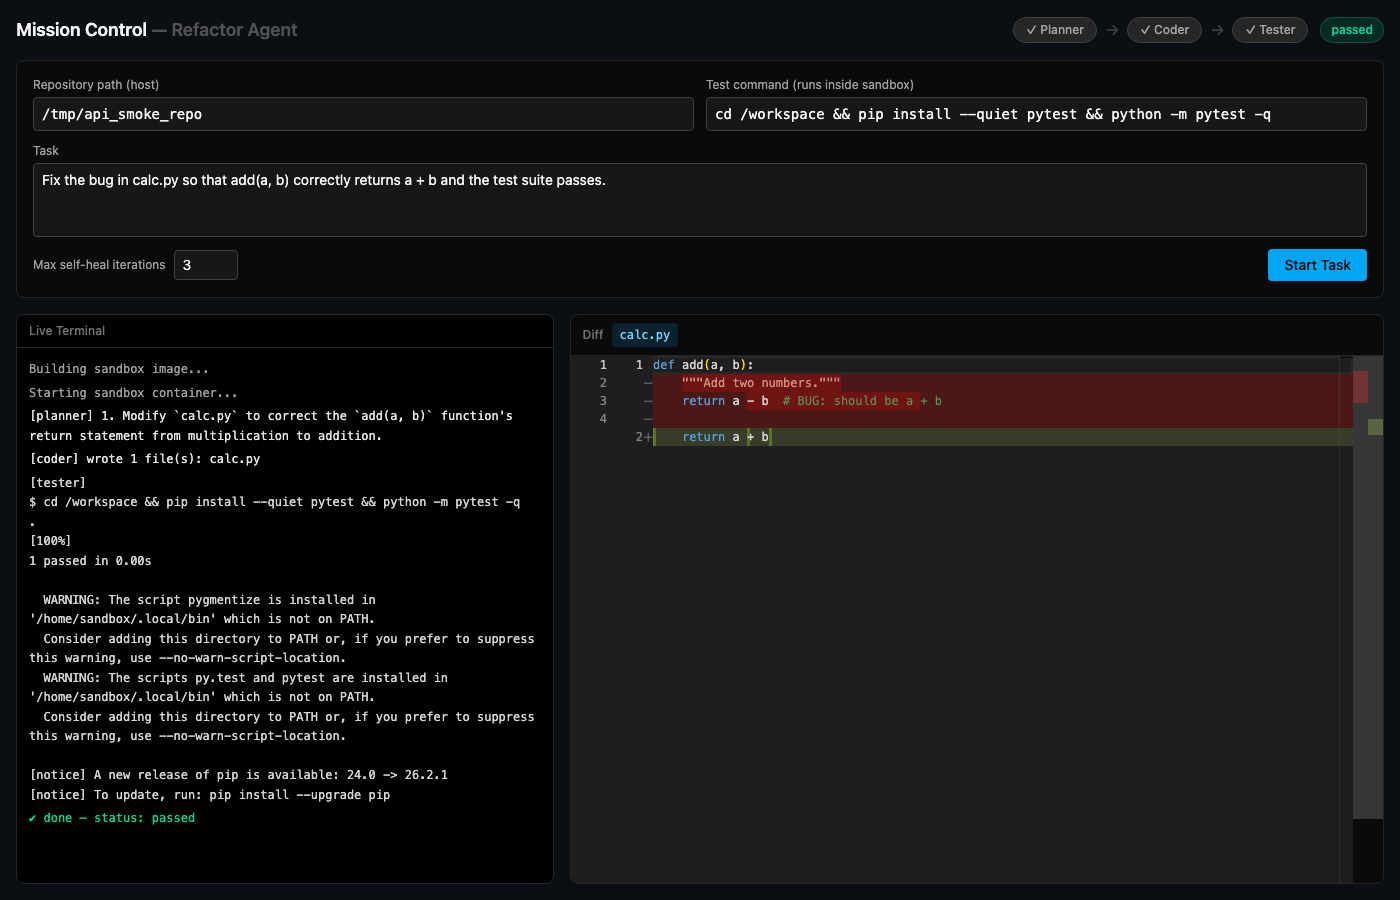
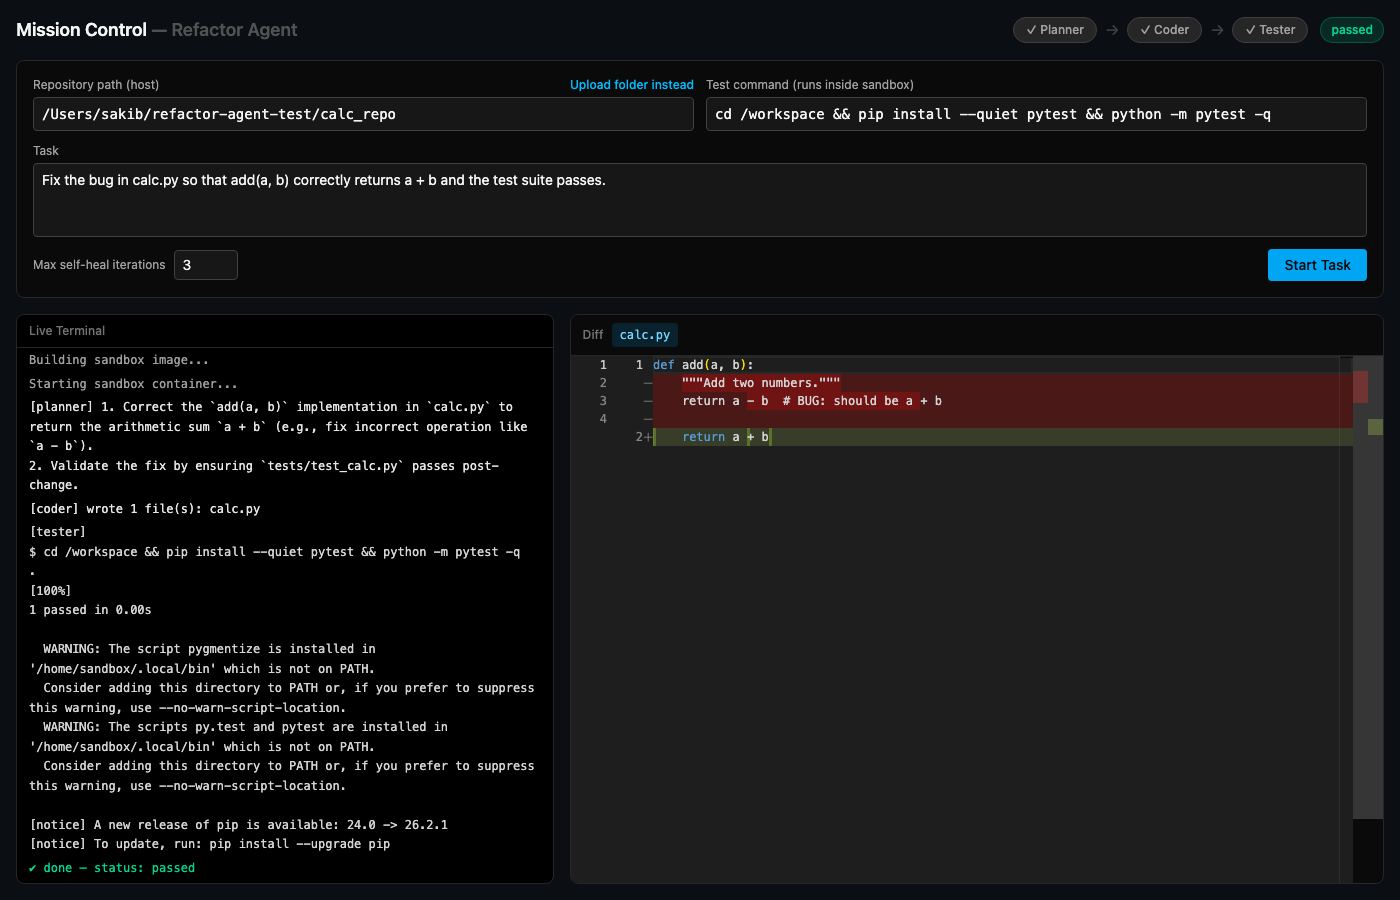
feat: implement file upload functionality with validation and response handling

diff --git a/frontend/src/components/TaskForm.tsx b/frontend/src/components/TaskForm.tsx
@@ -1,5 +1,6 @@
-import { useState } from "react";
+import { useEffect, useRef, useState } from "react";
 
+import { uploadRepository } from "../api";
 import type { TaskCreateRequest } from "../types";
 
 interface TaskFormProps {
@@ -12,6 +13,28 @@ export function TaskForm({ onSubmit, disabled }: TaskFormProps) {
   const [task, setTask] = useState("");
   const [testCommand, setTestCommand] = useState("pytest -q");
   const [maxIterations, setMaxIterations] = useState(3);
+  const [uploadState, setUploadState] = useState<
+    { status: "idle" } | { status: "uploading" } | { status: "done"; fileCount: number } | { status: "error"; message: string }
+  >({ status: "idle" });
+
+  const fileInputRef = useRef<HTMLInputElement>(null);
+
+  // webkitdirectory has no JSX/TS prop — set it imperatively on the input.
+  useEffect(() => {
+    fileInputRef.current?.setAttribute("webkitdirectory", "");
+  }, []);
+
+  async function handleFolderSelected(fileList: FileList | null) {
+    if (!fileList || fileList.length === 0) return;
+    setUploadState({ status: "uploading" });
+    try {
+      const { repoPath: uploadedPath, fileCount } = await uploadRepository(fileList);
+      setRepoPath(uploadedPath);
+      setUploadState({ status: "done", fileCount });
+    } catch (err) {
+      setUploadState({ status: "error", message: err instanceof Error ? err.message : String(err) });
+    }
+  }
 
   return (
     <form
@@ -23,7 +46,24 @@ export function TaskForm({ onSubmit, disabled }: TaskFormProps) {
     >
       <div className="grid grid-cols-1 gap-3 sm:grid-cols-2">
         <label className="flex flex-col gap-1 text-xs text-neutral-400">
-          Repository path (host)
+          <div className="flex items-center justify-between">
+            <span>Repository path (host)</span>
+            <button
+              type="button"
+              disabled={disabled || uploadState.status === "uploading"}
+              onClick={() => fileInputRef.current?.click()}
+              className="text-xs font-medium text-sky-400 hover:text-sky-300 disabled:cursor-not-allowed disabled:opacity-40"
+            >
+              {uploadState.status === "uploading" ? "Uploading…" : "Upload folder instead"}
+            </button>
+            <input
+              ref={fileInputRef}
+              type="file"
+              multiple
+              hidden
+              onChange={(e) => handleFolderSelected(e.target.files)}
+            />
+          </div>
           <input
             required
             disabled={disabled}
@@ -32,6 +72,10 @@ export function TaskForm({ onSubmit, disabled }: TaskFormProps) {
             placeholder="/path/to/target/repo"
             className="rounded border border-neutral-700 bg-neutral-900 px-2 py-1.5 font-mono text-sm text-neutral-100 disabled:opacity-50"
           />
+          {uploadState.status === "done" && (
+            <span className="text-emerald-400">Uploaded {uploadState.fileCount} file(s)</span>
+          )}
+          {uploadState.status === "error" && <span className="text-rose-400">{uploadState.message}</span>}
         </label>
         <label className="flex flex-col gap-1 text-xs text-neutral-400">
           Test command (runs inside sandbox)

diff --git a/frontend/src/api.ts b/frontend/src/api.ts
@@ -13,3 +13,44 @@ export async function createTask(req: TaskCreateRequest): Promise<string> {
   const data = (await res.json()) as { task_id: string };
   return data.task_id;
 }
+
+// Mirrors backend/app/rag/indexer.py's EXCLUDED_DIRS — no point uploading
+// dependency/build/vcs directories the agent's sandbox will regenerate anyway.
+const EXCLUDED_DIR_SEGMENTS = new Set([
+  ".git",
+  "__pycache__",
+  "node_modules",
+  ".venv",
+  "venv",
+  "dist",
+  "build",
+  ".pytest_cache",
+  "data",
+]);
+
+/** File objects from an <input webkitdirectory> input carry a non-standard
+ * webkitRelativePath, e.g. "myrepo/src/index.js" — not in lib.dom's File type. */
+type FileWithPath = File & { webkitRelativePath: string };
+
+export async function uploadRepository(fileList: FileList): Promise<{ repoPath: string; fileCount: number }> {
+  const files = Array.from(fileList) as FileWithPath[];
+  const included = files.filter(
+    (f) => !f.webkitRelativePath.split("/").some((segment) => EXCLUDED_DIR_SEGMENTS.has(segment)),
+  );
+  if (included.length === 0) {
+    throw new Error("no files to upload (folder was empty or fully excluded)");
+  }
+
+  const formData = new FormData();
+  for (const file of included) {
+    formData.append("files", file, file.webkitRelativePath);
+  }
+
+  const res = await fetch("/api/uploads", { method: "POST", body: formData });
+  if (!res.ok) {
+    const body = await res.json().catch(() => ({}));
+    throw new Error(body.detail ?? `upload failed: ${res.status}`);
+  }
+  const data = (await res.json()) as { repo_path: string; file_count: number };
+  return { repoPath: data.repo_path, fileCount: data.file_count };
+}

diff --git a/frontend/src/monaco-setup.ts b/frontend/src/monaco-setup.ts
@@ -4,8 +4,27 @@ import * as monaco from "monaco-editor";
 // Self-host Monaco instead of @monaco-editor/react's CDN default — this
 // project's default stack is local-first (Ollama, ChromaDB, Docker all run
 // on-device), so the editor shouldn't be the one piece that needs network.
-// No custom web worker wiring: this app only uses a read-only DiffEditor, so
-// Monaco's main-thread fallback (used automatically when no worker is
-// configured) is fine — the language-service workers exist for live
-// editing features (autocomplete, validation) that we don't use.
+//
+// The worker itself is trickier: monaco-editor's ESM worker entrypoints
+// (esm/vs/editor/editor.worker.js) have unresolved relative imports that
+// Vite 8/Rolldown's worker plugin currently can't bundle from inside
+// node_modules. Monaco's own build already produces a fully self-contained,
+// dependency-free worker bundle under min/vs/assets/ (a plain IIFE, no
+// import/export) — pull that in as raw text via a glob (the filename has a
+// content hash that shifts between monaco-editor versions) and run it as a
+// classic Worker from a Blob URL, sidestepping the bundler entirely.
+const editorWorkerSources = import.meta.glob("/node_modules/monaco-editor/min/vs/assets/editor.worker-*.js", {
+  query: "?raw",
+  import: "default",
+  eager: true,
+}) as Record<string, string>;
+const editorWorkerSource = Object.values(editorWorkerSources)[0];
+
+self.MonacoEnvironment = {
+  getWorker() {
+    const blob = new Blob([editorWorkerSource], { type: "application/javascript" });
+    return new Worker(URL.createObjectURL(blob));
+  },
+};
+
 loader.config({ monaco });

diff --git a/backend/app/api/routes.py b/backend/app/api/routes.py
@@ -1,17 +1,47 @@
 import asyncio
 import json
+import uuid
 from pathlib import Path
 
-from fastapi import APIRouter, BackgroundTasks, HTTPException, Request
+from fastapi import APIRouter, BackgroundTasks, File, HTTPException, Request, UploadFile
 from fastapi.responses import StreamingResponse
 
 from app.api.executor import execute_task
-from app.api.schemas import TaskCreateRequest, TaskCreateResponse, TaskStatusResponse
+from app.api.schemas import TaskCreateRequest, TaskCreateResponse, TaskStatusResponse, UploadResponse
 from app.api.task_manager import task_manager
+from app.core.config import get_settings
 
 router = APIRouter(prefix="/api")
+settings = get_settings()
 
 SSE_KEEPALIVE_SECONDS = 15
+
+
+def _safe_relative_path(raw: str) -> Path:
+    """Rejects absolute paths and any '..' segment — raw is a browser-supplied
+    filename (we ask the frontend to send each file's folder-relative path as
+    its multipart filename), so it must be treated as untrusted input."""
+    parts = [p for p in raw.replace("\\", "/").split("/") if p not in ("", ".")]
+    if not parts or any(p == ".." for p in parts):
+        raise HTTPException(status_code=400, detail=f"invalid path in upload: {raw!r}")
+    return Path(*parts)
+
+
+@router.post("/uploads", response_model=UploadResponse)
+async def upload_repository(files: list[UploadFile] = File(...)) -> UploadResponse:
+    if not files:
+        raise HTTPException(status_code=400, detail="no files provided")
+
+    dest_root = Path(settings.upload_root) / uuid.uuid4().hex[:12]
+    dest_root.mkdir(parents=True, exist_ok=True)
+
+    for upload in files:
+        relative = _safe_relative_path(upload.filename or "")
+        dest_path = dest_root / relative
+        dest_path.parent.mkdir(parents=True, exist_ok=True)
+        dest_path.write_bytes(await upload.read())
+
+    return UploadResponse(repo_path=str(dest_root), file_count=len(files))
 
 
 @router.post("/tasks", response_model=TaskCreateResponse)

diff --git a/backend/app/core/config.py b/backend/app/core/config.py
@@ -1,4 +1,5 @@
 from functools import lru_cache
+from pathlib import Path
 from typing import Optional
 
 from pydantic_settings import BaseSettings, SettingsConfigDict
@@ -44,6 +45,18 @@ class Settings(BaseSettings):
     LOG_LEVEL: str = "INFO"
     API_HOST: str = "0.0.0.0"
     API_PORT: int = 8000
+
+    # --- Uploads ---
+    # HOST_HOME is only set when running dockerized (docker-compose injects
+    # the *host's* $HOME) — inside the backend container, Path.home() would
+    # otherwise resolve to /root, which the host's Docker daemon (used via
+    # DooD to bind-mount into sandbox containers) has no knowledge of.
+    HOST_HOME: str = ""
+
+    @property
+    def upload_root(self) -> str:
+        base = self.HOST_HOME or str(Path.home())
+        return str(Path(base) / ".refactor-agent-uploads")
 
 
 @lru_cache

diff --git a/backend/app/api/schemas.py b/backend/app/api/schemas.py
@@ -19,3 +19,8 @@ class TaskStatusResponse(BaseModel):
     status: str
     events: list[dict]
     final_state: Optional[dict] = None
+
+
+class UploadResponse(BaseModel):
+    repo_path: str
+    file_count: int
